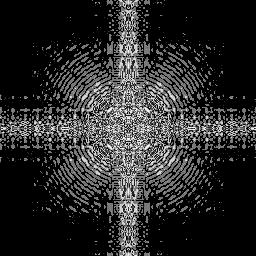
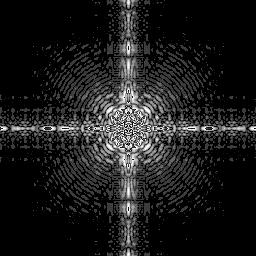
things

diff --git a/machinevision/assignment2/transformation.py b/machinevision/assignment2/transformation.py
@@ -53,10 +53,11 @@ def fullComparisonOfFinalImages(images):
 image_path = "machinevision/assignment2/fourierspectrum.pgm"
 image = Image.open(image_path).convert("L")  # Ensure it's grayscale
 imageArray = np.array(image)
-
+c=50
+gamma=0.8
 #do the transformations
-logTransform = logTransformation(imageArray, 50)
-powerLawTransform = powerLawTransformation(imageArray, 50, 0.8)
+logTransform = logTransformation(imageArray, c)
+powerLawTransform = powerLawTransformation(imageArray, c, gamma)
 images = [image, logTransform, powerLawTransform]
 #save a comparison of the images
 comparisons = fullComparisonOfFinalImages(images)

diff --git a/machinevision/assignment2/equalization.py b/machinevision/assignment2/equalization.py
@@ -52,9 +52,5 @@ def equalizeImage(image):
 image = cv2.imread('machinevision/assignment1/images/frog.jpg', cv2.IMREAD_GRAYSCALE)
 equalized_image = equalizeImage(image)
 cv2.imwrite('machinevision/assignment2/images/frogequalized.jpg', equalized_image)
-# equalized_image.save('machinevision/assignment2/images/bankerequalized.jpg')
 
-
-# # Load the grayscale image
-# image = cv2.imread('machinevision/assignment2/banker.jpg', cv2.IMREAD_GRAYSCALE)
 
